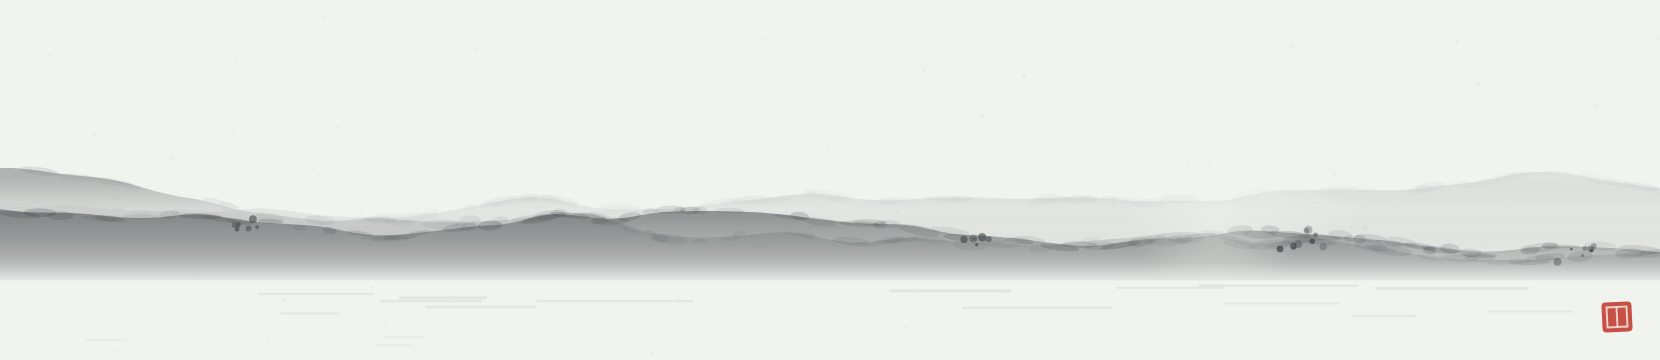
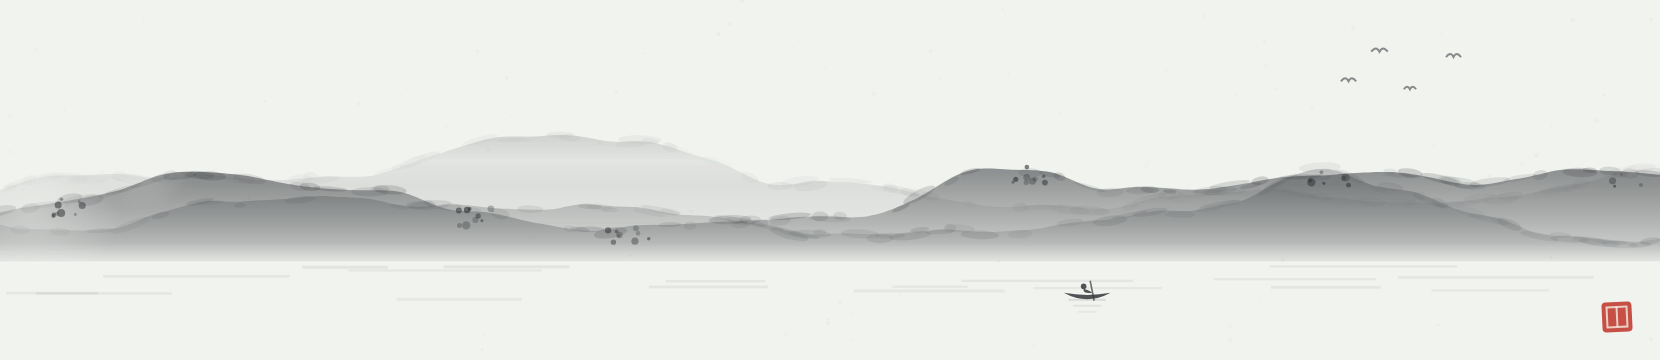
chore: refresh 2026-11-16

Changed region(s): [[0.0, 0.4583, 1.0, 0.825], [0.2765, 0.3667, 0.3994, 0.4278], [0.4608, 0.4889, 0.5223, 0.55]]

diff --git a/README.md b/README.md
@@ -5,7 +5,7 @@
     <img src="assets/ink-today.png" width="100%" alt="今日山色 — today's ink landscape">
   </picture>
 </p>
-<p align="center"><sub><!-- CAPTION:START -->今日山色 · 2026-11-15 · a new ink landscape every morning, seeded by the date &nbsp;·&nbsp; 「哀哀父母，生我劳瘁。」 佚名<!-- CAPTION:END --></sub></p>
+<p align="center"><sub><!-- CAPTION:START -->今日山色 · 2026-11-16 · a new ink landscape every morning, seeded by the date &nbsp;·&nbsp; 「风雨梨花寒食过，几家坟上子孙来？」 高启<!-- CAPTION:END --></sub></p>
 
 ### Hi, I'm jk.
 
